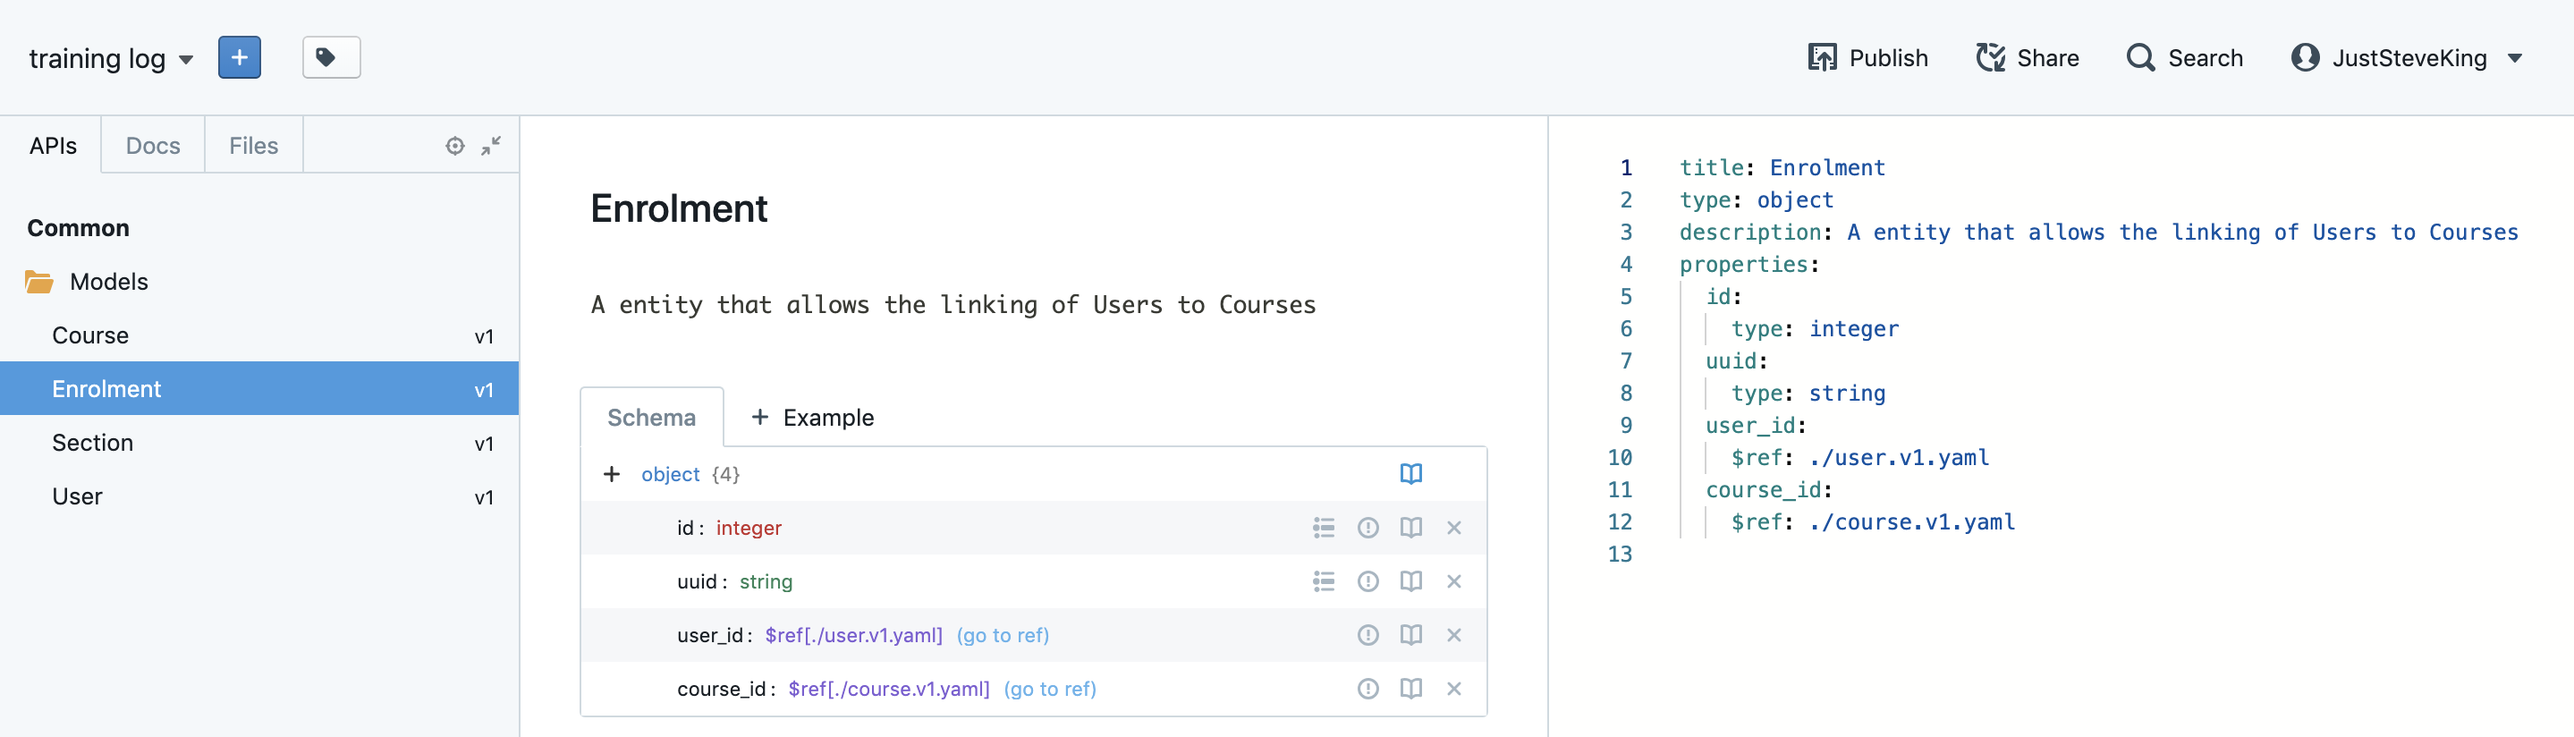
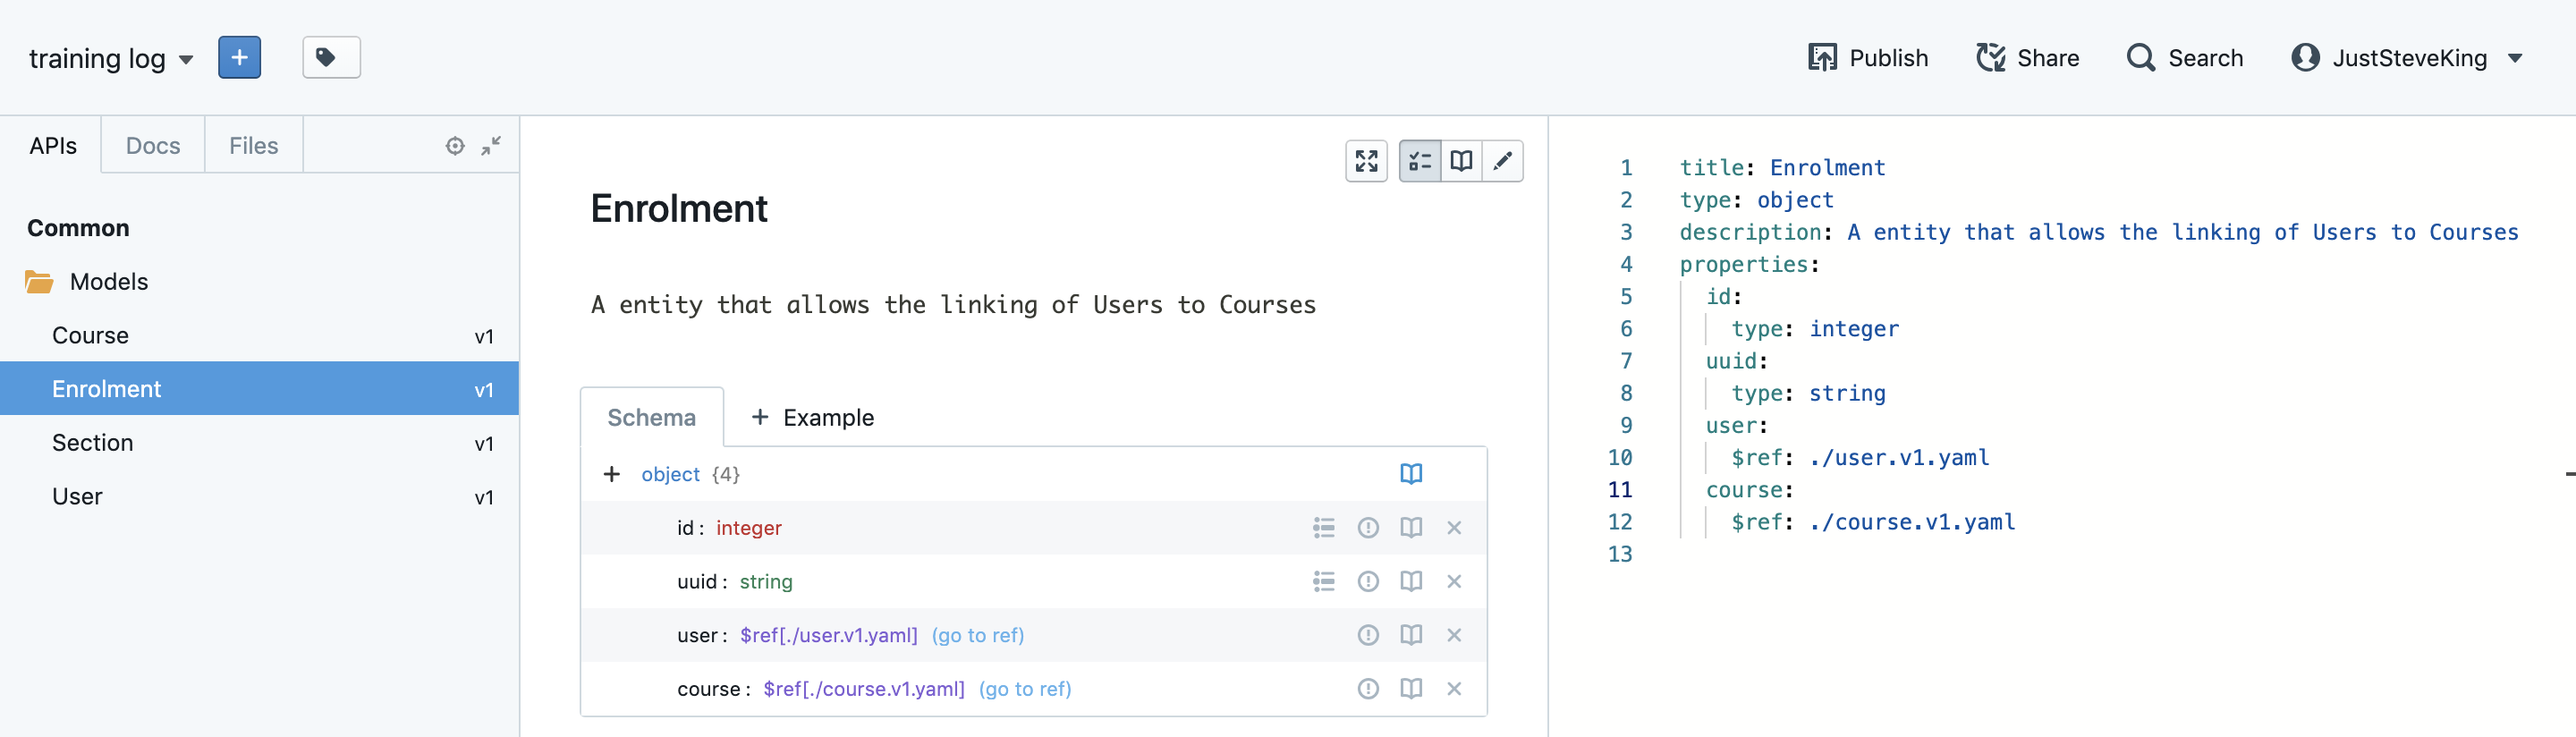
openapi spec fixes

diff --git a/blog/2019-09-12-getting-started-with-laravel-apis-part-2-stoplight-studio.md b/blog/2019-09-12-getting-started-with-laravel-apis-part-2-stoplight-studio.md
@@ -174,9 +174,9 @@ properties:
     type: integer
   uuid:
     type: string
-  user_id:
+  user:
     $ref: ./user.v1.yaml
-  course_id:
+  course:
     $ref: ./course.v1.yaml
 ```
 
@@ -197,7 +197,7 @@ properties:
     type: integer
   uuid:
     type: string
-  course_id:
+  course:
     $ref: ./course.v1.yaml
   order:
     type: integer
